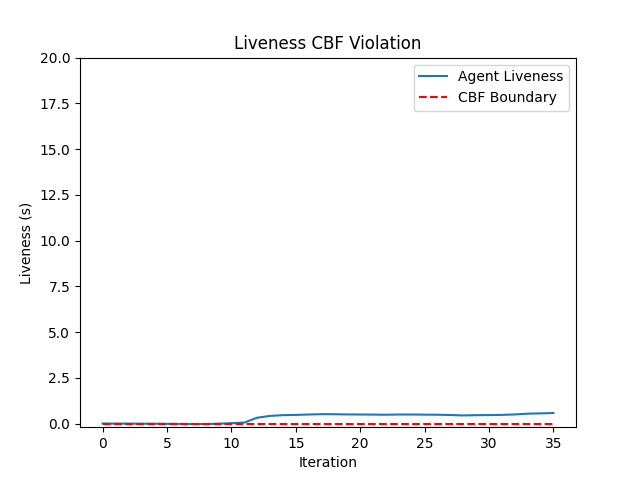
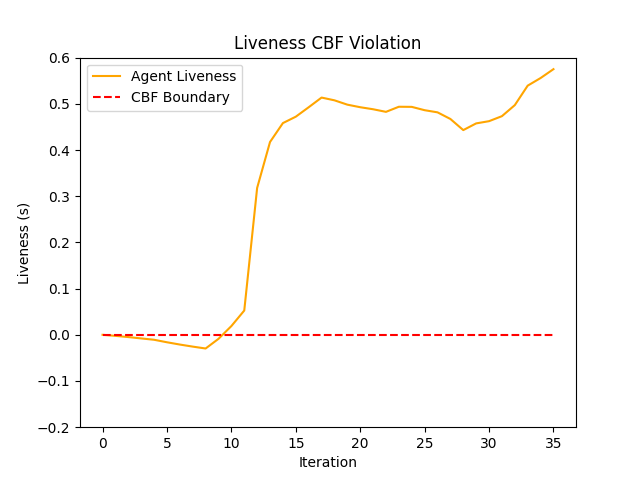
Recalc metrics for livenet and mpc

diff --git a/generate_plots.py b/generate_plots.py
@@ -6,6 +6,14 @@ from run_experiments import get_scenario
 from util import get_ray_intersection_point
 import matplotlib.pyplot as plt
 
+COLORS = ['orange', 'blue', 'magenta']
+
+SCENARIO = 'Doorway'
+# SCENARIO = 'Intersection'
+
+RUN_AGENT = 'MPC'
+# RUN_AGENT = 'LiveNet'
+
 def get_liveness_cbf(ego_state, opp_state, is_faster):
     center_intersection = get_ray_intersection_point(ego_state[:2], ego_state[2], opp_state[:2], opp_state[2])
     vec_to_opp = opp_state[:2] - ego_state[:2]
@@ -28,24 +36,33 @@ def get_liveness_cbf(ego_state, opp_state, is_faster):
 global figcount
 figcount = 1
 
-def gen_figure(ys, title, labels, ylabel, filesuffix, ylims=None, add_dotted=None):
+def gen_figure(ys, title, labels, ylabel, filesuffix, ylims=None, add_dotted=None, verticalline=None):
     global figcount
     plt.figure(figcount)
     figcount += 1
     plt.title(title)
-    for y, label in zip(ys, labels):
-        plt.plot(y, label = label)
+    for i, (y, label) in enumerate(zip(ys, labels)):
+        plt.plot(y, label = label, color=COLORS[i])
     
+    if ylims is not None:
+        plt.ylim(ylims)
+
     if add_dotted is not None:
         val, label = add_dotted
         plt.plot([val if i is not None else None for i in ys[0]], label=label, linestyle='--', color='red')
 
+    if verticalline is not None:
+        val, label = verticalline
+        xmin, xmax = plt.gca().get_xlim()
+        ymin, ymax = plt.gca().get_ylim()
+        plt.fill_between(range(int(xmin) - 1, val + 1), ymin, ymax, alpha=0.5, color='darkred', label="Before Crossing")
+        plt.fill_between(range(val, int(xmax) + 2), ymin, ymax, alpha=0.5, color='green', label="After Crossing")
+        plt.gca().set_ylim([ymin, ymax])
+        plt.gca().set_xlim([xmin, xmax])
+
     plt.ylabel(ylabel)
     plt.xlabel('Iteration')
     plt.legend()
-
-    if ylims is not None:
-        plt.ylim(ylims)
 
     plt.savefig(f'experiment_results/histories/{RUN_AGENT}_{SCENARIO}_{filesuffix}.png')
     print("Saved plot to", f"experiment_results/histories/{RUN_AGENT}_{SCENARIO}_{filesuffix}.png")
@@ -55,10 +72,10 @@ def gen_traj_plot(desireds, trajs, labels, title, filesuffix, plot_skip = 3):
     plt.figure(figcount)
     figcount += 1
     plt.title(title)
-    for desired, traj, label in zip(desireds, trajs, labels):
-        plt.plot(desired[:, 0], desired[:, 1], linestyle='--', label = label)
-        plt.scatter(traj[::plot_skip, 0], traj[::plot_skip, 1], label = label)
-    
+    for i, (desired, traj, label) in enumerate(zip(desireds, trajs, labels)):
+        plt.plot(desired[:, 0], desired[:, 1], linestyle='--', label = label, color=COLORS[i])
+        plt.scatter(traj[::plot_skip, 0], traj[::plot_skip, 1], label = label, color=COLORS[i])
+        plt.scatter([traj[-1][0]], [traj[-1][1]], marker='x', s=300, color=COLORS[i])
 
     plt.ylabel('Y (m)')
     plt.xlabel('X (m)')
@@ -67,12 +84,6 @@ def gen_traj_plot(desireds, trajs, labels, title, filesuffix, plot_skip = 3):
     plt.savefig(f'experiment_results/desired_paths/{RUN_AGENT}_{SCENARIO}_{filesuffix}.png')
     print("Saved plot to", f"experiment_results/desired_paths/{RUN_AGENT}_{SCENARIO}_{filesuffix}.png")
 
-
-SCENARIO = 'Doorway'
-# SCENARIO = 'Intersection'
-
-# RUN_AGENT = 'MPC'
-RUN_AGENT = 'LiveNet'
 
 filename = f'experiment_results/histories/{RUN_AGENT}_{SCENARIO}.json'
 logger = DataLogger.load_file(filename)
@@ -110,9 +121,12 @@ for iteration in logger.data['iterations']:
 
     liveness_cbf_vals.append(get_liveness_cbf(ego_state, opp_state, first_reached_goal < second_reached_goal))
 
+liveness_last_idx = liveness_cbf_vals.index(None)
+liveness_ylim = 0.6 if SCENARIO == "Doorway" else 5.0
+
 first_name = "Faster" if first_reached_goal < second_reached_goal else "Slower"
 second_name = "Slower" if first_reached_goal < second_reached_goal else "Faster"
-gen_figure([vels_0, vels_1], "Agent Velocity", [f'{first_name} Agent', f'{second_name} Agent'], "Agent Velocity (m/s)", "velocities")
+gen_figure([vels_0, vels_1], "Agent Velocity", [f'{first_name} Agent', f'{second_name} Agent'], "Agent Velocity (m/s)", "velocities", verticalline=(liveness_last_idx, "Last Intersecting Trajectories"))
 gen_figure([obs_dist_vals_0, obs_dist_vals_1, opp_dist_vals], "Distance CBF Violation", [f'{first_name} Agent Static Obstacle Distance', f'{second_name} Agent Static Obstacle Distance', 'Inter-Agent Distance'],  "Distance (m)", "distance_cbf", add_dotted=(0, 'CBF Boundary'), ylims=[-0.2, np.max([obs_dist_vals_0, obs_dist_vals_1, opp_dist_vals])])
-gen_figure([liveness_cbf_vals], "Liveness CBF Violation", [f'Agent Liveness'],  "Liveness (s)", "liveness_cbf", add_dotted=(0, 'CBF Boundary'), ylims=[-0.2, 20])
+gen_figure([liveness_cbf_vals], "Liveness CBF Violation", [f'Agent Liveness'],  "Liveness (s)", "liveness_cbf", add_dotted=(0, 'CBF Boundary'), ylims=[-0.2, liveness_ylim])
 gen_traj_plot([desired0, desired1], [traj0, traj1], [f"{first_name} Agent", f"{second_name} Agent"], "Desired vs. Taken Trajectories", "desired")

diff --git a/summarize_metrics.py b/summarize_metrics.py
@@ -23,7 +23,9 @@ IDXS = {
     'delta_vel_0': 8,
     'delta_vel_1': 9,
     'path_dev_0': 10,
-    'path_dev_1': 11
+    'path_dev_1': 11,
+    'avg_compute_0': 12,
+    'avg_compute_1': 13
 }
 
 # Get num sims
@@ -54,6 +56,11 @@ deltaPaths = metrics[:, [IDXS['path_dev_0'], IDXS['path_dev_1']]].flatten()
 avg_delta_path = np.average(deltaPaths)
 err_delta_path = np.std(deltaPaths) / np.sqrt(deltaPaths.size)
 
+# Get average compute time.
+compute_times = metrics[:, [IDXS['avg_compute_0'], IDXS['avg_compute_1']]].flatten()
+avg_compute_time = np.average(compute_times)
+err_compute_time = np.std(compute_times) / np.sqrt(compute_times.size)
+
 print(f"Accumulated metrics for {AGENT} agents in {SCENARIO} scenario")
 print("Num simulations run:", num_sims)
 print("Number of collisions:", collisions)
@@ -61,6 +68,7 @@ print("Number of deadlocks:", deadlocks)
 print(f"Slower TTG: {avg_slower_ttg} +/- {err_slower_ttg}")
 print(f"Delta Velocity: {avg_delta_v} +/- {err_delta_v}")
 print(f"Path Deviation: {avg_delta_path} +/- {err_delta_path}")
+print(f"Compute Time: {avg_compute_time} +/- {err_compute_time}")
 
 # number of collisions
 # number of deadlocks

diff --git a/run_experiments.py b/run_experiments.py
@@ -20,12 +20,12 @@ from plotter import Plotter
 # SCENARIO = 'Doorway'
 SCENARIO = 'Intersection'
 
-RUN_AGENT = 'MPC'
+# RUN_AGENT = 'MPC'
 # RUN_AGENT = 'MPC_UNLIVE'
 # RUN_AGENT = 'BarrierNet'
-# RUN_AGENT = 'LiveNet'
+RUN_AGENT = 'LiveNet'
 
-SIM_RESULTS_MODE = True
+SIM_RESULTS_MODE = False
 
 NUM_SIMS = 50
 
